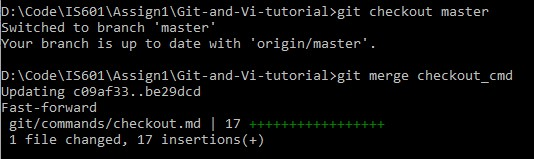
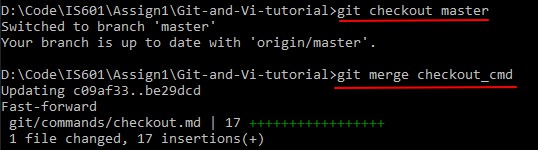
Fix

Changed region(s): [[0.0, 0.4267, 0.9588, 0.9867], [0.0, 0.0267, 0.9288, 0.2133], [0.0, 0.24, 0.7191, 0.3467]]

diff --git a/git/commands/merge.md b/git/commands/merge.md
@@ -17,7 +17,7 @@ Then merge the branch:
 git merge checkout_cmd
 ```
 
-
+This is an example to merge a branch name "checkout_cmd" to the master branch.
 ![merge](/git/img/merge.jpg)
 
 
